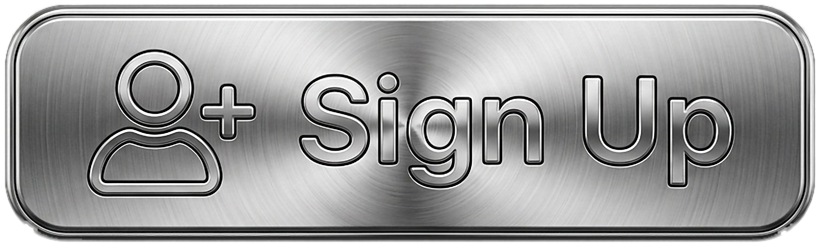
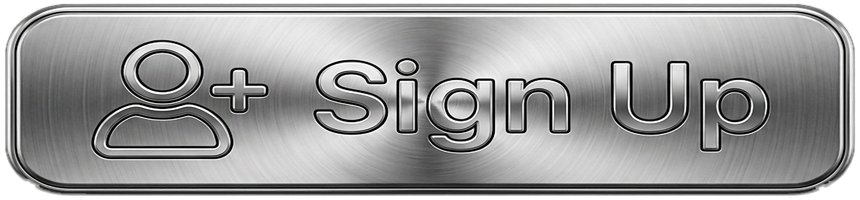
fix(streaks-frontend): login polish — center buttons (bob keeps translateX), smaller plaque/bigger room, identical-size buttons

diff --git a/serverless-v2/services/streaks-frontend/src/components/LoginScreen.tsx b/serverless-v2/services/streaks-frontend/src/components/LoginScreen.tsx
@@ -44,8 +44,8 @@ function freshPlayerId(): string {
 
 // --- "alive" button idle bob (gentle, offset per button) -------------------
 const bob = keyframes`
-  0%, 100% { transform: translateY(0); }
-  50%      { transform: translateY(-2px); }
+  0%, 100% { transform: translateX(-50%) translateY(0); }
+  50%      { transform: translateX(-50%) translateY(-2px); }
 `;
 
 /**
@@ -158,8 +158,8 @@ export default function LoginScreen() {
         sx={{
           position: 'relative',
           zIndex: 2,
-          height: '90vh',
-          maxHeight: 880,
+          height: '68vh',
+          maxHeight: 610,
           aspectRatio: '900 / 1229',
           filter: 'drop-shadow(0 24px 50px rgba(0,0,0,0.6))',
         }}